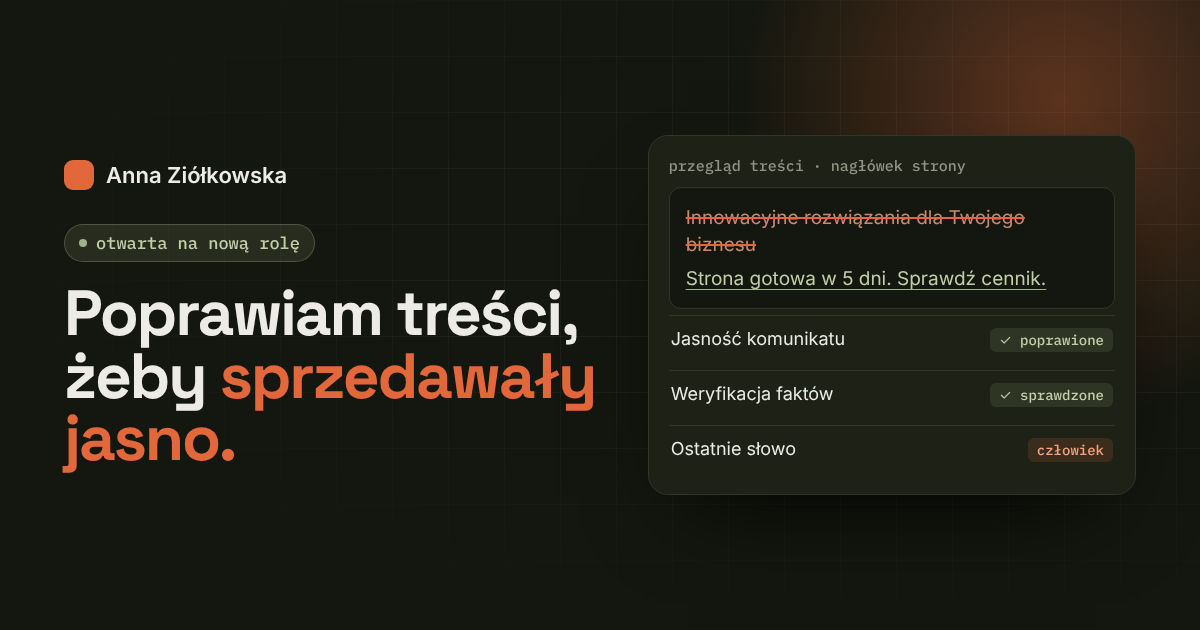
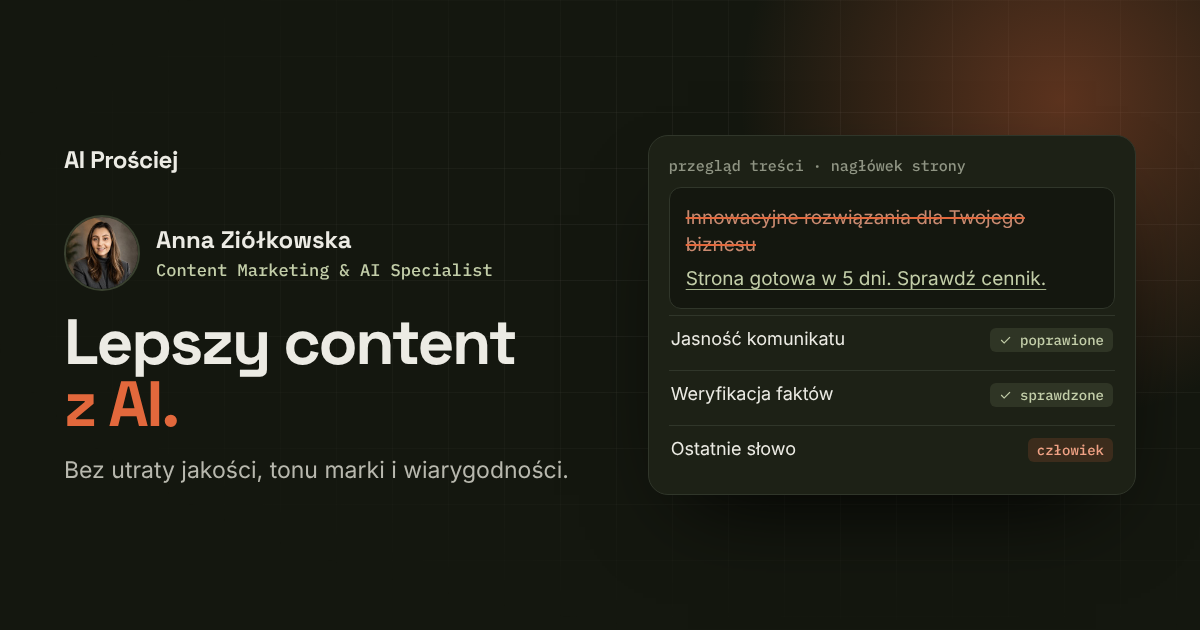
Zdjęcie w hero, sekcja Publikacje, ikonka AI Prościej, nowa grafika OG, etykiety sekcji (#32)
Claude-Session: https://claude.ai/code/session_01RQhda2Pt9qS53WrcHSA6pF

Changed region(s): [[0.0308, 0.3317, 0.4933, 0.7841], [0.0308, 0.2413, 0.2467, 0.3016]]

diff --git a/index.html b/index.html
@@ -12,6 +12,8 @@
 <link rel="alternate" hreflang="x-default" href="https://anna-content-ai.github.io/anna-content-ai/">
 <script type="application/ld+json">{"@context": "https://schema.org", "@type": "Person", "name": "Anna Ziółkowska", "jobTitle": "Content Marketing & AI Specialist", "url": "https://anna-content-ai.github.io/anna-content-ai/", "image": "https://anna-content-ai.github.io/anna-content-ai/photo.jpg", "email": "mailto:aiprosciej@gmail.com", "address": {"@type": "PostalAddress", "addressLocality": "Warszawa", "addressCountry": "PL"}, "alumniOf": {"@type": "CollegeOrUniversity", "name": "Szkoła Główna Handlowa w Warszawie"}, "knowsAbout": ["UX writing", "Content strategy", "Fact-checking", "Content design", "Generative AI", "Claude Skills", "Social media analytics", "Accessibility"], "sameAs": ["https://www.linkedin.com/in/anna-ziolkowska-ai", "https://github.com/anna-content-ai"], "description": "Treści, UX writing i AI w marketingu"}</script>
 <link rel="icon" href="favicon.svg" type="image/svg+xml">
+<link rel="icon" href="favicon-32.png" type="image/png" sizes="32x32">
+<link rel="apple-touch-icon" href="apple-touch-icon.png">
 <meta name="theme-color" content="#14170F">
 <meta property="og:type" content="website">
 <meta property="og:locale" content="pl_PL">
@@ -86,6 +88,10 @@
   .glow { will-change: transform, translate; position: absolute; width: 640px; height: 640px; right: -160px; top: -140px; border-radius: 50%; background: radial-gradient(closest-side, rgba(226,104,60,.32), transparent); pointer-events: none; z-index: -1; animation: drift 14s ease-in-out infinite alternate; }
   @keyframes drift { to { transform: translate(-60px, 40px) scale(1.08); } }
   .hero-grid { display: grid; grid-template-columns: minmax(0, 1.08fr) minmax(0, .92fr); gap: 56px; align-items: center; }
+  .who { display: flex; align-items: center; gap: 14px; margin: 0; }
+  .who img { width: 56px; height: 56px; border-radius: 50%; object-fit: cover; display: block; border: 2px solid var(--line-2); }
+  .who b { display: block; font: 600 1.02rem var(--display); color: var(--text); letter-spacing: -.01em; }
+  .who small { display: block; font: 500 .8rem var(--mono); color: var(--sage-text); margin-top: 2px; }
   .pill { display: inline-flex; align-items: center; gap: 9px; font: 500 .82rem var(--mono); padding: 6px 13px; border-radius: 999px; background: var(--sage-bg); color: var(--sage-text); border: 1px solid rgba(163,177,138,.3); }
   .pill i { width: 7px; height: 7px; border-radius: 50%; background: var(--sage); animation: ping 2.2s infinite; }
   @keyframes ping { 0% { box-shadow: 0 0 0 0 rgba(163,177,138,.55); } 80%,100% { box-shadow: 0 0 0 9px rgba(163,177,138,0); } }
@@ -320,6 +326,15 @@
   .menu-btn { min-height: 44px; }
   @media (max-width: 980px) { .tile.wide.full { grid-column: span 6; } }
   .links a.lang { font: 500 .8rem var(--mono); letter-spacing: .06em; border: 1px solid var(--line); }
+  .posts { list-style: none; margin: 0; padding: 0; display: grid; grid-template-columns: repeat(2, 1fr); gap: 16px; }
+  .post { background: var(--surface); border: 1px solid var(--line); border-radius: 18px; padding: 22px 24px; }
+  .post .pm { display: flex; gap: 10px; flex-wrap: wrap; font: 500 .74rem var(--mono); color: var(--muted); margin: 0 0 10px; }
+  .post .pm span + span::before { content: "·"; margin-right: 10px; }
+  .post h3 { font-size: 1.2rem; line-height: 1.2; margin-bottom: 8px; }
+  .post p:last-child { margin: 0; color: var(--text-2); font-size: .95rem; }
+  .posts-all { margin-top: 20px; }
+  @media (max-width: 720px) { .posts { grid-template-columns: 1fr; } }
+  @media print { .posts-all { display: none !important; } }
   /* ===== Animacje v3 ===== */
   .progress { position: fixed; left: 0; top: 0; height: 3px; width: 100%; z-index: 60; background: linear-gradient(90deg, var(--accent), #F0A285); transform-origin: left; transform: scaleX(var(--sp, 0)); pointer-events: none; }
   .js-tick .ticker ul { animation: none !important; will-change: transform; }
@@ -466,7 +481,7 @@
       <div class="spot" aria-hidden="true"></div>
       <div class="hero-grid">
         <div>
-          <span class="pill"><i aria-hidden="true"></i>Content Marketing & AI · Warszawa</span>
+          <p class="who"><picture><source srcset="photo-240.webp" type="image/webp"><img src="photo-240.jpg" alt="" width="240" height="240" fetchpriority="high"></picture><span><b>Anna Ziółkowska</b><small>Content Marketing & AI Specialist · Warszawa</small></span></p>
           <h1 class="split" aria-label="Poprawiam treści, żeby sprzedawały jasno."><span aria-hidden="true"><span class="w">Poprawiam</span> <span class="w">treści,</span> <span class="w">żeby</span> <span class="acc"><span class="w">sprzedawały</span> <span class="w">jasno.</span></span></span></h1>
           <p class="lead">Piszę i poprawiam treści na strony, do interfejsów i social mediów. AI przyspiesza mi szkice i analizę, a fakty i ostateczną wersję sprawdzam sama.</p>
           <div class="actions">
@@ -515,7 +530,7 @@
 
     <section id="projekty">
       <div class="head reveal">
-        <div><span class="eyebrow scramble">projekty</span><h2>Wybrane projekty</h2></div>
+        <div><span class="eyebrow scramble">4 projekty · case study</span><h2>Wybrane projekty</h2></div>
         <p>Cztery projekty: narzędzia AI, UX aplikacji, analiza treści strony i dane z social mediów.</p>
       </div>
       <div class="bento">
@@ -623,9 +638,23 @@
       </div>
     </section>
 
+    <section id="publikacje">
+      <div class="head reveal">
+        <div><span class="eyebrow scramble">LinkedIn · treści o AI</span><h2>Publikacje</h2></div>
+        <p>Piszę o AI w marketingu: przepisy, prompty i sprawdzanie faktów. Posty po polsku.</p>
+      </div>
+      <ul class="posts">
+        <li class="post reveal"><p class="pm"><span>listopad 2026</span><span>AI Act · karuzela</span></p><h3>Piszesz z AI? Są nowe zasady.</h3><p>Co od 2 sierpnia 2026 oznacza art. 50 AI Act dla tekstów pisanych z pomocą AI i dlaczego przegląd człowieka ma znaczenie.</p></li>
+        <li class="post reveal"><p class="pm"><span>październik 2026</span><span>fact-checking · prompt</span></p><h3>Ten tekst napisało AI. Znajdziesz dwie pułapki?</h3><p>Zagadka z tekstem AI i prompt, który przed publikacją wypisuje wszystkie twierdzenia do sprawdzenia.</p></li>
+        <li class="post reveal"><p class="pm"><span>październik 2026</span><span>streszczenia · prompt</span></p><h3>AI streściło raport w 20 sekund. Tylko czy to prawda?</h3><p>Jedna zmiana w poleceniu: numer strony przy każdym wniosku, żeby streszczenie dało się szybko sprawdzić.</p></li>
+        <li class="post reveal"><p class="pm"><span>październik 2026</span><span>LinkedIn · analiza</span></p><h3>LinkedIn ogranicza zasięgi generycznych postów AI.</h3><p>Co naprawdę ogłosiła platforma, czego w polskich omówieniach nie było i jak to się łączy z AI Act.</p></li>
+      </ul>
+      <a class="btn btn-line posts-all" href="https://www.linkedin.com/in/anna-ziolkowska-ai/recent-activity/all/">Wszystkie publikacje na LinkedInie <span aria-hidden="true">↗</span></a>
+    </section>
+
     <section id="proces">
       <div class="head reveal">
-        <div><span class="eyebrow scramble">proces</span><h2>Jak pracuję z AI</h2></div>
+        <div><span class="eyebrow scramble">AI + człowiek</span><h2>Jak pracuję z AI</h2></div>
         <p>AI robi szkice i analizę. Etapy na pomarańczowo zawsze wykonuję sama.</p>
       </div>
       <div class="vtabs" role="tablist" aria-label="Procesy" hidden>
@@ -645,7 +674,7 @@
     </section>
 
     <section id="o-mnie">
-      <div class="head reveal"><div><span class="eyebrow scramble">o mnie</span><h2>O mnie</h2></div></div>
+      <div class="head reveal"><div><span class="eyebrow scramble">9+ lat w marketingu</span><h2>O mnie</h2></div></div>
       <div class="about">
         <div class="card reveal">
           <div class="me-row">

diff --git a/en/index.html b/en/index.html
@@ -12,6 +12,8 @@
 <link rel="alternate" hreflang="x-default" href="https://anna-content-ai.github.io/anna-content-ai/">
 <script type="application/ld+json">{"@context": "https://schema.org", "@type": "Person", "name": "Anna Ziółkowska", "jobTitle": "Content Marketing & AI Specialist", "url": "https://anna-content-ai.github.io/anna-content-ai/", "image": "https://anna-content-ai.github.io/anna-content-ai/photo.jpg", "email": "mailto:aiprosciej@gmail.com", "address": {"@type": "PostalAddress", "addressLocality": "Warszawa", "addressCountry": "PL"}, "alumniOf": {"@type": "CollegeOrUniversity", "name": "Szkoła Główna Handlowa w Warszawie"}, "knowsAbout": ["UX writing", "Content strategy", "Fact-checking", "Content design", "Generative AI", "Claude Skills", "Social media analytics", "Accessibility"], "sameAs": ["https://www.linkedin.com/in/anna-ziolkowska-ai", "https://github.com/anna-content-ai"], "description": "Content, UX writing and AI in marketing"}</script>
 <link rel="icon" href="../favicon.svg" type="image/svg+xml">
+<link rel="icon" href="../favicon-32.png" type="image/png" sizes="32x32">
+<link rel="apple-touch-icon" href="../apple-touch-icon.png">
 <meta name="theme-color" content="#14170F">
 <meta property="og:type" content="website">
 <meta property="og:locale" content="en_GB">
@@ -86,6 +88,10 @@
   .glow { will-change: transform, translate; position: absolute; width: 640px; height: 640px; right: -160px; top: -140px; border-radius: 50%; background: radial-gradient(closest-side, rgba(226,104,60,.32), transparent); pointer-events: none; z-index: -1; animation: drift 14s ease-in-out infinite alternate; }
   @keyframes drift { to { transform: translate(-60px, 40px) scale(1.08); } }
   .hero-grid { display: grid; grid-template-columns: minmax(0, 1.08fr) minmax(0, .92fr); gap: 56px; align-items: center; }
+  .who { display: flex; align-items: center; gap: 14px; margin: 0; }
+  .who img { width: 56px; height: 56px; border-radius: 50%; object-fit: cover; display: block; border: 2px solid var(--line-2); }
+  .who b { display: block; font: 600 1.02rem var(--display); color: var(--text); letter-spacing: -.01em; }
+  .who small { display: block; font: 500 .8rem var(--mono); color: var(--sage-text); margin-top: 2px; }
   .pill { display: inline-flex; align-items: center; gap: 9px; font: 500 .82rem var(--mono); padding: 6px 13px; border-radius: 999px; background: var(--sage-bg); color: var(--sage-text); border: 1px solid rgba(163,177,138,.3); }
   .pill i { width: 7px; height: 7px; border-radius: 50%; background: var(--sage); animation: ping 2.2s infinite; }
   @keyframes ping { 0% { box-shadow: 0 0 0 0 rgba(163,177,138,.55); } 80%,100% { box-shadow: 0 0 0 9px rgba(163,177,138,0); } }
@@ -320,6 +326,15 @@
   .menu-btn { min-height: 44px; }
   @media (max-width: 980px) { .tile.wide.full { grid-column: span 6; } }
   .links a.lang { font: 500 .8rem var(--mono); letter-spacing: .06em; border: 1px solid var(--line); }
+  .posts { list-style: none; margin: 0; padding: 0; display: grid; grid-template-columns: repeat(2, 1fr); gap: 16px; }
+  .post { background: var(--surface); border: 1px solid var(--line); border-radius: 18px; padding: 22px 24px; }
+  .post .pm { display: flex; gap: 10px; flex-wrap: wrap; font: 500 .74rem var(--mono); color: var(--muted); margin: 0 0 10px; }
+  .post .pm span + span::before { content: "·"; margin-right: 10px; }
+  .post h3 { font-size: 1.2rem; line-height: 1.2; margin-bottom: 8px; }
+  .post p:last-child { margin: 0; color: var(--text-2); font-size: .95rem; }
+  .posts-all { margin-top: 20px; }
+  @media (max-width: 720px) { .posts { grid-template-columns: 1fr; } }
+  @media print { .posts-all { display: none !important; } }
   /* ===== Animacje v3 ===== */
   .progress { position: fixed; left: 0; top: 0; height: 3px; width: 100%; z-index: 60; background: linear-gradient(90deg, var(--accent), #F0A285); transform-origin: left; transform: scaleX(var(--sp, 0)); pointer-events: none; }
   .js-tick .ticker ul { animation: none !important; will-change: transform; }
@@ -466,7 +481,7 @@
       <div class="spot" aria-hidden="true"></div>
       <div class="hero-grid">
         <div>
-          <span class="pill"><i aria-hidden="true"></i>Content Marketing & AI · Warsaw, Poland</span>
+          <p class="who"><picture><source srcset="../photo-240.webp" type="image/webp"><img src="../photo-240.jpg" alt="" width="240" height="240" fetchpriority="high"></picture><span><b>Anna Ziółkowska</b><small>Content Marketing & AI Specialist · Warsaw</small></span></p>
           <h1 class="split" aria-label="I fix copy so it sells clearly."><span aria-hidden="true"><span class="w">I</span> <span class="w">fix</span> <span class="w">copy</span> <span class="w">so</span> <span class="w">it</span> <span class="acc"><span class="w">sells</span> <span class="w">clearly.</span></span></span></h1>
           <p class="lead">I write and edit copy for websites, interfaces and social media. AI speeds up my drafts and analysis; I check the facts and the final version myself.</p>
           <div class="actions">
@@ -515,7 +530,7 @@
 
     <section id="projekty">
       <div class="head reveal">
-        <div><span class="eyebrow scramble">projects</span><h2>Selected projects</h2></div>
+        <div><span class="eyebrow scramble">4 projects · case studies</span><h2>Selected projects</h2></div>
         <p>Four projects: AI tools, app UX, a website copy review and social media data.</p>
       </div>
       <div class="bento">
@@ -623,9 +638,23 @@
       </div>
     </section>
 
+    <section id="publikacje">
+      <div class="head reveal">
+        <div><span class="eyebrow scramble">LinkedIn · writing on AI</span><h2>Publications</h2></div>
+        <p>I write about AI in marketing: regulation, prompts and fact-checking. Posts in Polish.</p>
+      </div>
+      <ul class="posts">
+        <li class="post reveal"><p class="pm"><span>November 2026</span><span>AI Act · carousel</span></p><h3>Writing with AI? There are new rules.</h3><p>What Article 50 of the AI Act means from 2 August 2026 for AI-assisted texts, and why human review matters.</p></li>
+        <li class="post reveal"><p class="pm"><span>October 2026</span><span>fact-checking · prompt</span></p><h3>AI wrote this text. Can you spot two traps?</h3><p>A puzzle with an AI-written text and a prompt that lists every claim to check before publishing.</p></li>
+        <li class="post reveal"><p class="pm"><span>October 2026</span><span>summaries · prompt</span></p><h3>AI summarised a report in 20 seconds. But is it true?</h3><p>One change to the prompt: a page number for every point, so the summary can be checked quickly.</p></li>
+        <li class="post reveal"><p class="pm"><span>October 2026</span><span>LinkedIn · analysis</span></p><h3>LinkedIn limits the reach of generic AI posts.</h3><p>What the platform actually announced, what Polish write-ups got wrong, and how it ties in with the AI Act.</p></li>
+      </ul>
+      <a class="btn btn-line posts-all" href="https://www.linkedin.com/in/anna-ziolkowska-ai/recent-activity/all/">All posts on LinkedIn <span aria-hidden="true">↗</span></a>
+    </section>
+
     <section id="proces">
       <div class="head reveal">
-        <div><span class="eyebrow scramble">process</span><h2>How I work with AI</h2></div>
+        <div><span class="eyebrow scramble">AI + human</span><h2>How I work with AI</h2></div>
         <p>AI does drafts and analysis. I always do the orange steps myself.</p>
       </div>
       <div class="vtabs" role="tablist" aria-label="Processes" hidden>
@@ -645,7 +674,7 @@
     </section>
 
     <section id="o-mnie">
-      <div class="head reveal"><div><span class="eyebrow scramble">about</span><h2>About me</h2></div></div>
+      <div class="head reveal"><div><span class="eyebrow scramble">9+ years in marketing</span><h2>About me</h2></div></div>
       <div class="about">
         <div class="card reveal">
           <div class="me-row">

diff --git a/en/case-studies/social-media-producent-materialow.html b/en/case-studies/social-media-producent-materialow.html
@@ -6,6 +6,8 @@
 <title>Case study: building materials brand channel – Anna Ziółkowska</title>
 <meta name="description" content="90 days of a building materials manufacturer’s channel: where reach comes from, what drives interactions, findings and a testing plan.">
 <link rel="icon" href="../../favicon.svg" type="image/svg+xml">
+<link rel="icon" href="../../favicon-32.png" type="image/png" sizes="32x32">
+<link rel="apple-touch-icon" href="../../apple-touch-icon.png">
 <meta name="theme-color" content="#14170F">
 <meta property="og:type" content="article">
 <meta property="og:locale" content="en_GB">

diff --git a/case-studies/social-media-producent-materialow.html b/case-studies/social-media-producent-materialow.html
@@ -6,6 +6,8 @@
 <title>Case study: analiza kanału marki budowlanej – Anna Ziółkowska</title>
 <meta name="description" content="Analiza 90 dni kanału producenta materiałów budowlanych: skąd przychodzi zasięg, co daje interakcje, wnioski i plan testów.">
 <link rel="icon" href="../favicon.svg" type="image/svg+xml">
+<link rel="icon" href="../favicon-32.png" type="image/png" sizes="32x32">
+<link rel="apple-touch-icon" href="../apple-touch-icon.png">
 <meta name="theme-color" content="#14170F">
 <meta property="og:type" content="article">
 <meta property="og:locale" content="pl_PL">

diff --git a/case-studies/odetchnij-teraz.html b/case-studies/odetchnij-teraz.html
@@ -6,6 +6,8 @@
 <title>Case study: Odetchnij Teraz – Anna Ziółkowska</title>
 <meta name="description" content="Koncept aplikacji mobilnej na codzienny stres: przepływy, interfejs i treści UX w Figma Make, przeglądy heurystyczne i dostępność.">
 <link rel="icon" href="../favicon.svg" type="image/svg+xml">
+<link rel="icon" href="../favicon-32.png" type="image/png" sizes="32x32">
+<link rel="apple-touch-icon" href="../apple-touch-icon.png">
 <meta name="theme-color" content="#14170F">
 <meta property="og:type" content="article">
 <meta property="og:locale" content="pl_PL">

diff --git a/en/case-studies/odetchnij-teraz.html b/en/case-studies/odetchnij-teraz.html
@@ -6,6 +6,8 @@
 <title>Case study: Odetchnij Teraz – Anna Ziółkowska</title>
 <meta name="description" content="A mobile app concept for everyday stress: flows, interface and UX copy in Figma Make, heuristic reviews and accessibility.">
 <link rel="icon" href="../../favicon.svg" type="image/svg+xml">
+<link rel="icon" href="../../favicon-32.png" type="image/png" sizes="32x32">
+<link rel="apple-touch-icon" href="../../apple-touch-icon.png">
 <meta name="theme-color" content="#14170F">
 <meta property="og:type" content="article">
 <meta property="og:locale" content="en_GB">

diff --git a/case-studies/analiza-tresci-www.html b/case-studies/analiza-tresci-www.html
@@ -6,6 +6,8 @@
 <title>Case study: analiza treści na www – Anna Ziółkowska</title>
 <meta name="description" content="Przegląd tekstu strony: nieuzasadnione obietnice, niejasne przyciski, gotowe poprawki i porównanie ChatGPT i Claude.">
 <link rel="icon" href="../favicon.svg" type="image/svg+xml">
+<link rel="icon" href="../favicon-32.png" type="image/png" sizes="32x32">
+<link rel="apple-touch-icon" href="../apple-touch-icon.png">
 <meta name="theme-color" content="#14170F">
 <meta property="og:type" content="article">
 <meta property="og:locale" content="pl_PL">

diff --git a/en/case-studies/analiza-tresci-www.html b/en/case-studies/analiza-tresci-www.html
@@ -6,6 +6,8 @@
 <title>Case study: website copy review – Anna Ziółkowska</title>
 <meta name="description" content="A review of website copy: unsupported promises, unclear buttons, ready fixes and a ChatGPT vs Claude comparison.">
 <link rel="icon" href="../../favicon.svg" type="image/svg+xml">
+<link rel="icon" href="../../favicon-32.png" type="image/png" sizes="32x32">
+<link rel="apple-touch-icon" href="../../apple-touch-icon.png">
 <meta name="theme-color" content="#14170F">
 <meta property="og:type" content="article">
 <meta property="og:locale" content="en_GB">

diff --git a/prywatnosc/index.html b/prywatnosc/index.html
@@ -6,6 +6,8 @@
 <title>Polityka prywatności i cookies – Anna Ziółkowska</title>
 <meta name="description" content="Polityka prywatności strony Anny Ziółkowskiej: bez cookies, bez statystyk, jak przetwarzam dane z korespondencji.">
 <link rel="icon" href="../favicon.svg" type="image/svg+xml">
+<link rel="icon" href="../favicon-32.png" type="image/png" sizes="32x32">
+<link rel="apple-touch-icon" href="../apple-touch-icon.png">
 <meta name="theme-color" content="#14170F">
 <meta property="og:type" content="article">
 <meta property="og:locale" content="pl_PL">

diff --git a/en/privacy/index.html b/en/privacy/index.html
@@ -6,6 +6,8 @@
 <title>Privacy and cookie policy – Anna Ziółkowska</title>
 <meta name="description" content="Privacy policy of Anna Ziółkowska’s site: no cookies, no analytics, how correspondence data is handled.">
 <link rel="icon" href="../../favicon.svg" type="image/svg+xml">
+<link rel="icon" href="../../favicon-32.png" type="image/png" sizes="32x32">
+<link rel="apple-touch-icon" href="../../apple-touch-icon.png">
 <meta name="theme-color" content="#14170F">
 <meta property="og:type" content="article">
 <meta property="og:locale" content="en_GB">
